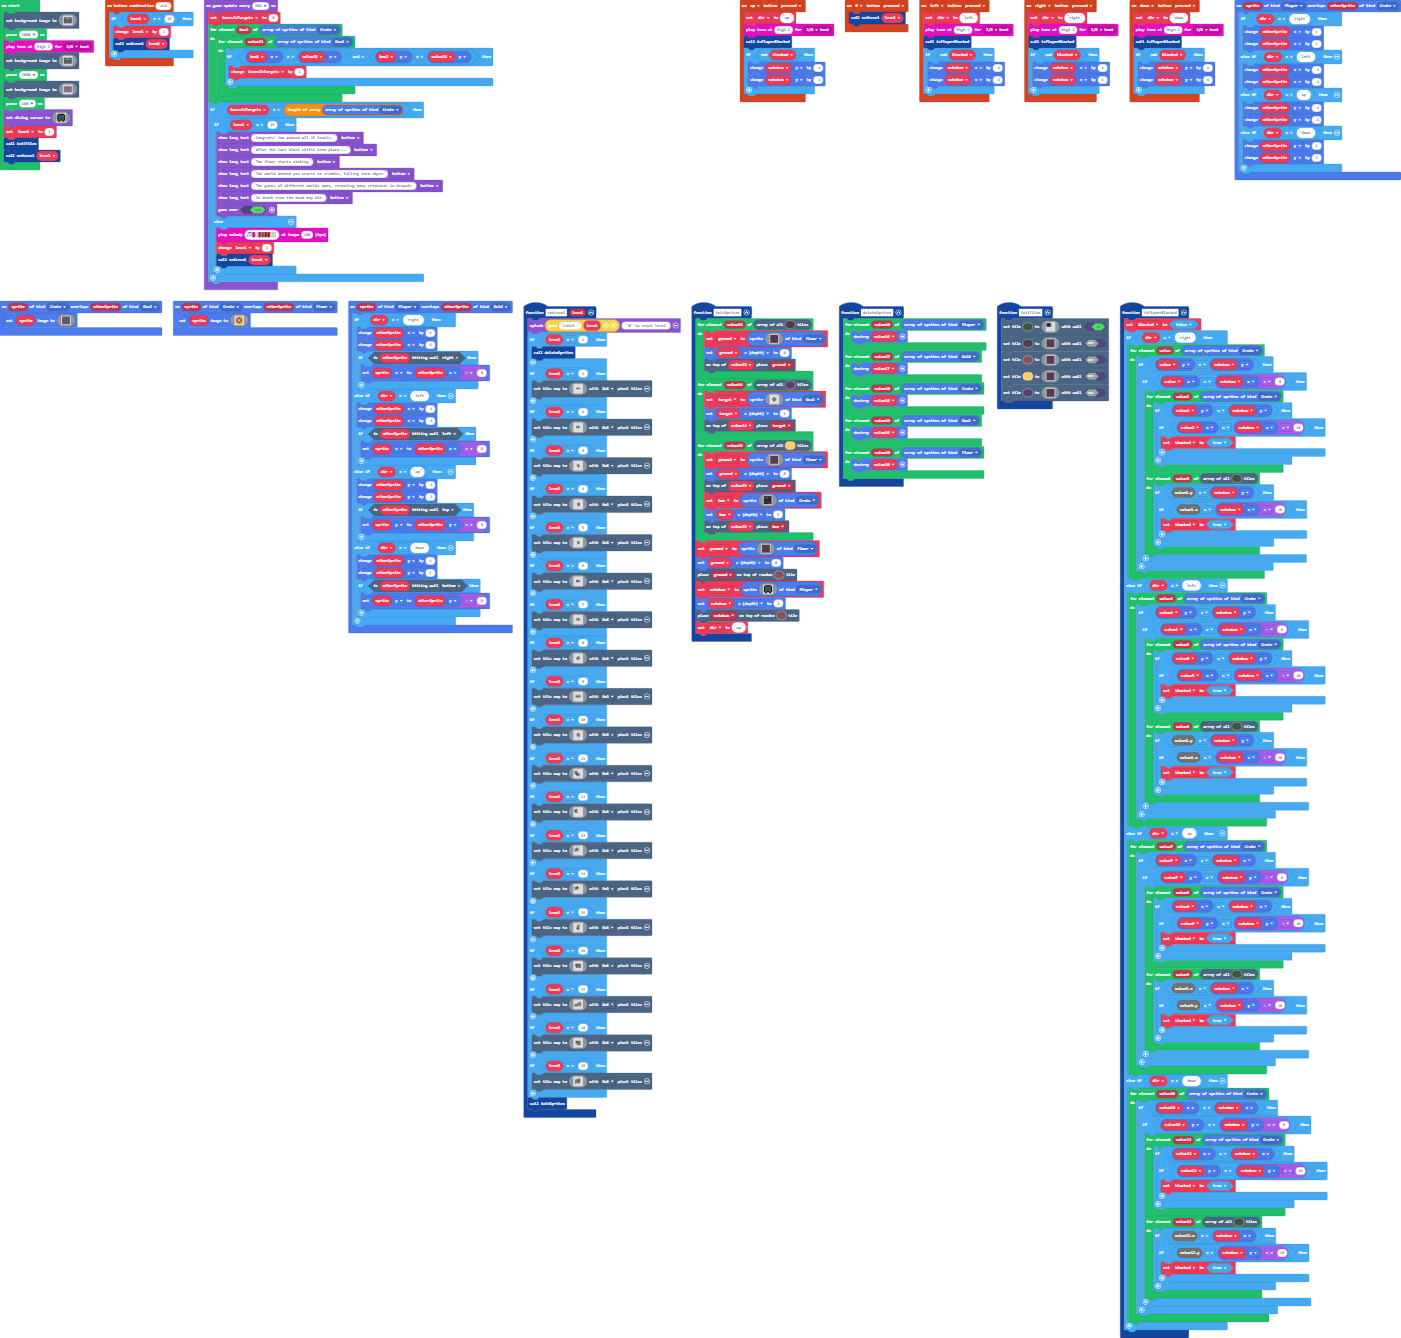
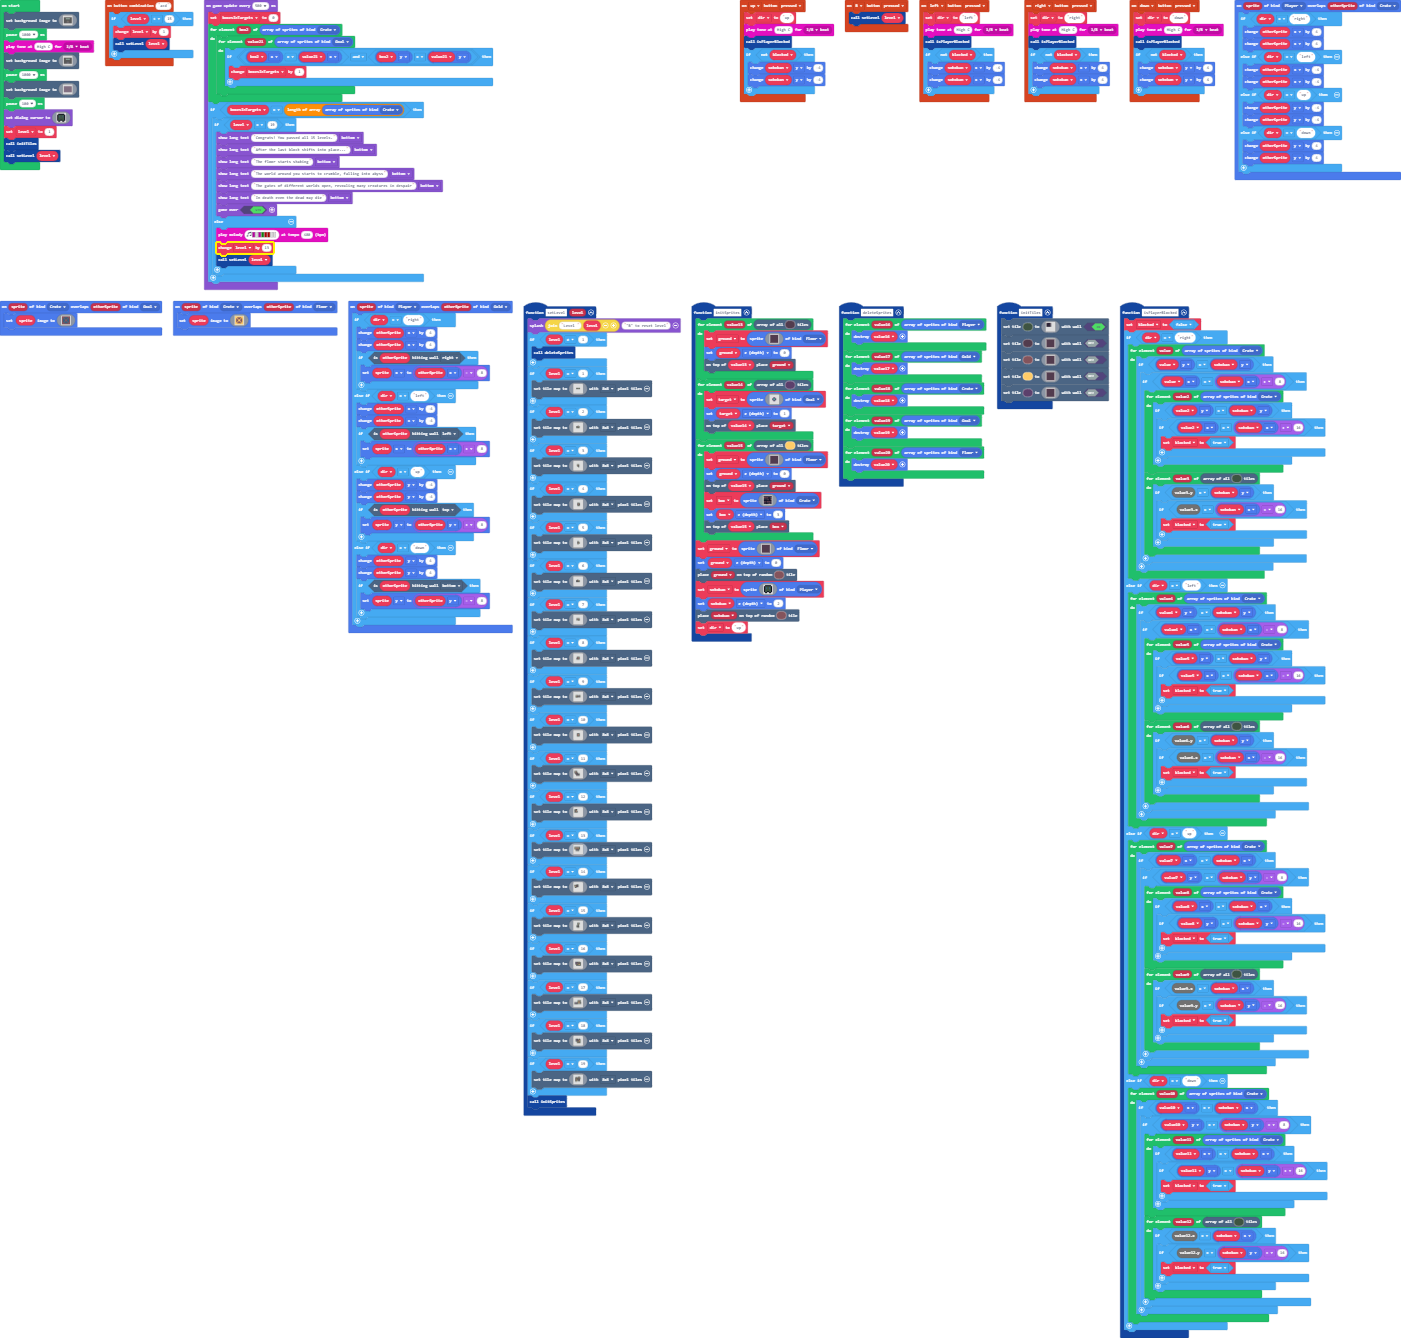
Update main.blocks, main.ts

Changed region(s): [[0.3683, 0.6129, 0.4604, 0.858]]

diff --git a/main.ts b/main.ts
@@ -240,16 +240,16 @@ function setLevel (level: number) {
     if (level == 13) {
         scene.setTileMap(img`
             . . . . . . . . . . . . . . . . . . . . 
-            . . . . . . 3 3 3 3 3 . . . . . . . . . 
-            . 3 3 3 3 3 3 1 1 1 3 . . . . . . . . . 
-            . 3 1 1 e 1 1 1 1 1 3 . . . . . . . . . 
-            . 3 1 1 e 3 3 3 1 3 3 . . . . . . . . . 
-            . 3 3 c e c 1 c 1 c 3 . . . . . . . . . 
-            . . 3 1 e 3 1 1 1 1 3 . . . . . . . . . 
-            . . 3 1 4 3 3 3 3 3 3 . . . . . . . . . 
-            . . 3 1 1 3 . . . . . . . . . . . . . . 
-            . . 3 3 3 3 . . . . . . . . . . . . . . 
-            . . . . . . . . . . . . . . . . . . . . 
+            . 3 3 3 3 3 3 3 3 3 3 3 3 3 3 . . . . . 
+            . 3 1 1 1 1 1 1 1 1 1 1 1 1 3 . . . . . 
+            . 3 1 1 e 1 e 1 e 1 e 1 1 1 3 . . . . . 
+            . 3 1 1 e 1 e 1 e 1 e 1 1 1 3 . . . . . 
+            . 3 4 1 e 1 e 1 e 1 e 1 e 1 3 . . . . . 
+            . 3 3 3 3 c 3 1 3 1 3 1 3 3 3 . . . . . 
+            . . . . 3 c 3 c 3 c 3 c 3 . . . . . . . 
+            . . . . 3 c 3 c 3 c 3 c 3 . . . . . . . 
+            . . . . 3 c 3 c 3 c 3 c 3 . . . . . . . 
+            . . . . 3 3 3 3 3 3 3 3 3 . . . . . . . 
             . . . . . . . . . . . . . . . . . . . . 
             . . . . . . . . . . . . . . . . . . . . 
             . . . . . . . . . . . . . . . . . . . . 
@@ -261,9 +261,9 @@ function setLevel (level: number) {
             . . . . . . . . . . . . . . . . . . . . 
             . . . . . . 3 3 3 3 3 . . . . . . . . . 
             . 3 3 3 3 3 3 1 1 1 3 . . . . . . . . . 
-            . 3 1 1 e 1 1 1 1 1 3 . . . . . . . . . 
+            . 3 1 1 1 1 1 1 1 1 3 . . . . . . . . . 
             . 3 1 1 e 3 3 3 1 3 3 . . . . . . . . . 
-            . 3 3 c e c 1 c 1 c 3 . . . . . . . . . 
+            . 3 3 c e c 1 1 1 c 3 . . . . . . . . . 
             . . 3 1 e 3 1 1 1 1 3 . . . . . . . . . 
             . . 3 1 4 3 3 3 3 3 3 . . . . . . . . . 
             . . 3 1 1 3 . . . . . . . . . . . . . . 
@@ -1180,7 +1180,7 @@ game.onUpdateInterval(500, function () {
             game.over(true)
         } else {
             music.playMelody("C - C G C5 C5 - - ", 480)
-            level += 1
+            level += 13
             setLevel(level)
         }
     }
